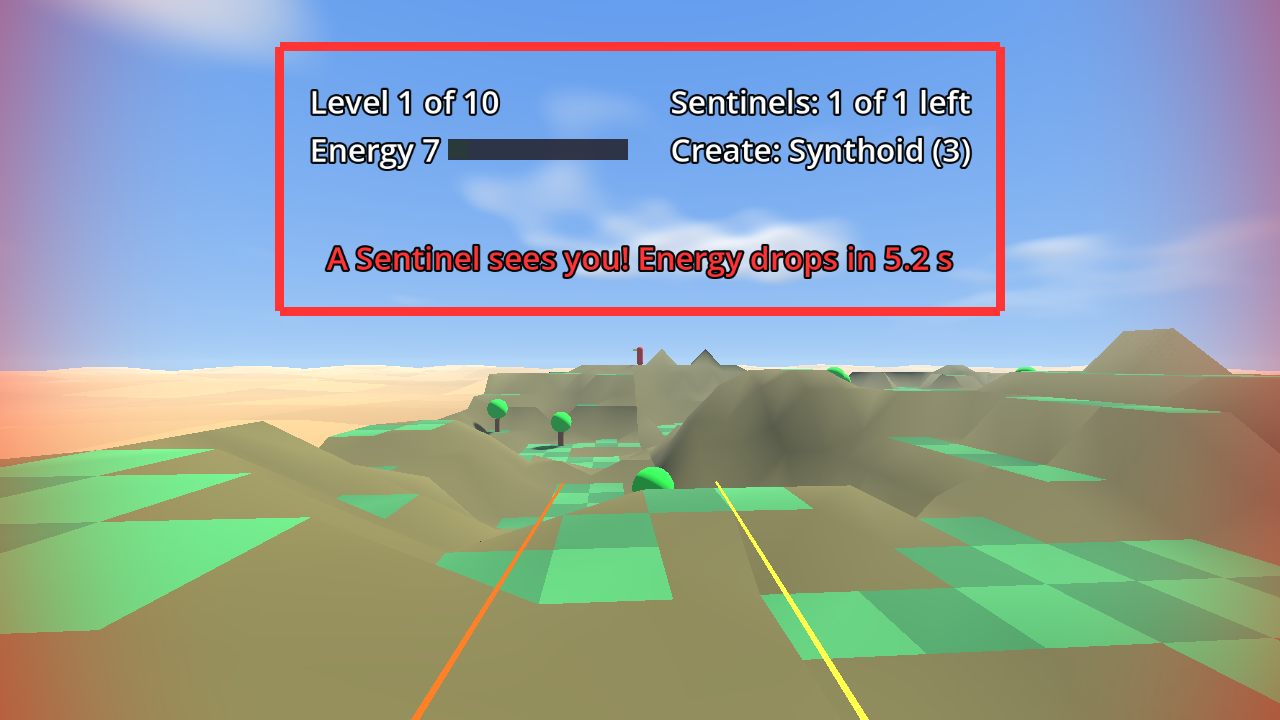
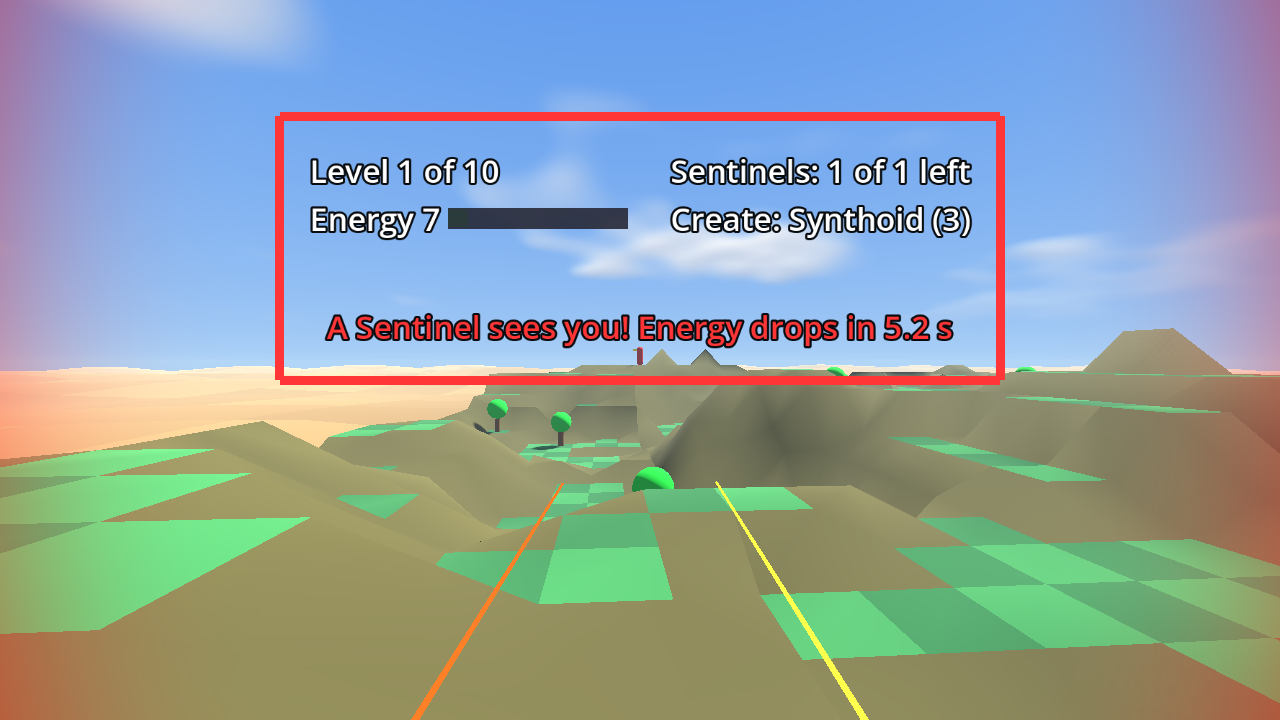
HUD further (4 m) and lower (about 12 degrees up), same on-screen size; AC-28/AC-42, SPEC, README, screenshots

Changed region(s): [[0.1875, 0.0611, 0.8125, 0.3972], [0.1875, 0.4278, 0.8125, 0.5194], [0.2188, 0.5194, 0.7812, 0.55]]

diff --git a/docs/SPEC.md b/docs/SPEC.md
@@ -340,8 +340,8 @@ brings the user back here.
 ## 8. HUD (viewport-anchored, at the top)
 
 The HUD is a child of the XR camera (head-locked), never of a controller. It is
-a strip at the **top** of the view: centred 2.5 m in front of the eyes and 0.9 m
-above the centre of gaze (about 20 degrees up), scaled so it looks about 1.5x larger than
+a strip at the **top** of the view: centred 4 m in front of the eyes and 0.85 m
+above the centre of gaze (about 12 degrees up, lower in the view than the first versions), scaled so it looks about 1.5x larger than
 the first version (which sat 1.2 m away and was too close to read), unshaded and drawn on top, so the
 middle of the view stays clear. Contents, always visible: Energy (number and
 bar), Level ("Level 3 of 10"), **Sentinels left** counter ("Sentinels: 2 of 3
@@ -489,7 +489,7 @@ headless; "Scene" = instantiate scene headless with `Main.advance`.
 
 - AC-27 (Scene) `Hud` is a descendant of `XRCamera3D` and not of either controller;
   its local transform is constant while the camera moves.
-- AC-28 (Scene) `Hud` local position is (0, +0.9 +- 0.05, -2.5 +- 0.1), i.e. above
+- AC-28 (Scene) `Hud` local position is (0, +0.85 +- 0.05, -4.0 +- 0.1), i.e. above
   the gaze centre, not below or at it, and its on-screen size (scale / distance) is
   at least 1.5 / 1.2 (about 1.5x the first version; board finding: larger and further).
 - AC-29 (Scene) HUD text shows energy as a number that updates after create
@@ -535,8 +535,8 @@ headless; "Scene" = instantiate scene headless with `Main.advance`.
 *HUD*
 
 - AC-42 (Scene) `HudEnergy`, `HudLevel`, `HudSentinels`, `HudMode`, `HudWatched`
-  and `HudMessage` each have camera-local y between +0.5 and +1.5 m (at
-  z = -2.5), |x| <= 1.8 m, and between 5 and 35 degrees up and under 38 degrees
+  and `HudMessage` each have camera-local y between +0.2 and +1.8 m (at
+  z = -4.0), |x| <= 3.0 m, and between 3 and 25 degrees up and under 38 degrees
   to the side: all above the gaze line and inside the view.
 - AC-52 (Scene) `HudMode` reads "Create: Synthoid (3)" at level start and after
   a retry, and "Create: Boulder (2)" after one `press("grip_click")`.

diff --git a/README.md b/README.md
@@ -23,7 +23,7 @@ that shows where they look) stand on the highest ground; green **trees** (3 m
 tall: a 1.2 m trunk under a 1.8 m leafy canopy) are scattered about. There are ten levels; rules and level generation are
 in `docs/SPEC.md` (sections 3-4).
 
-**HUD.** A head-locked panel 2.5 m in front of you, large enough to read, above the centre of
+**HUD.** A head-locked panel 4 m in front of you, large enough to read, above the centre of
 gaze so it never covers the ground you are looking at: **Energy** (number and
 bar), **Level n of 10**, **Sentinels: k of N left**, the create mode
 (**Create: Synthoid (3)** or **Create: Boulder (2)**), a red border and
